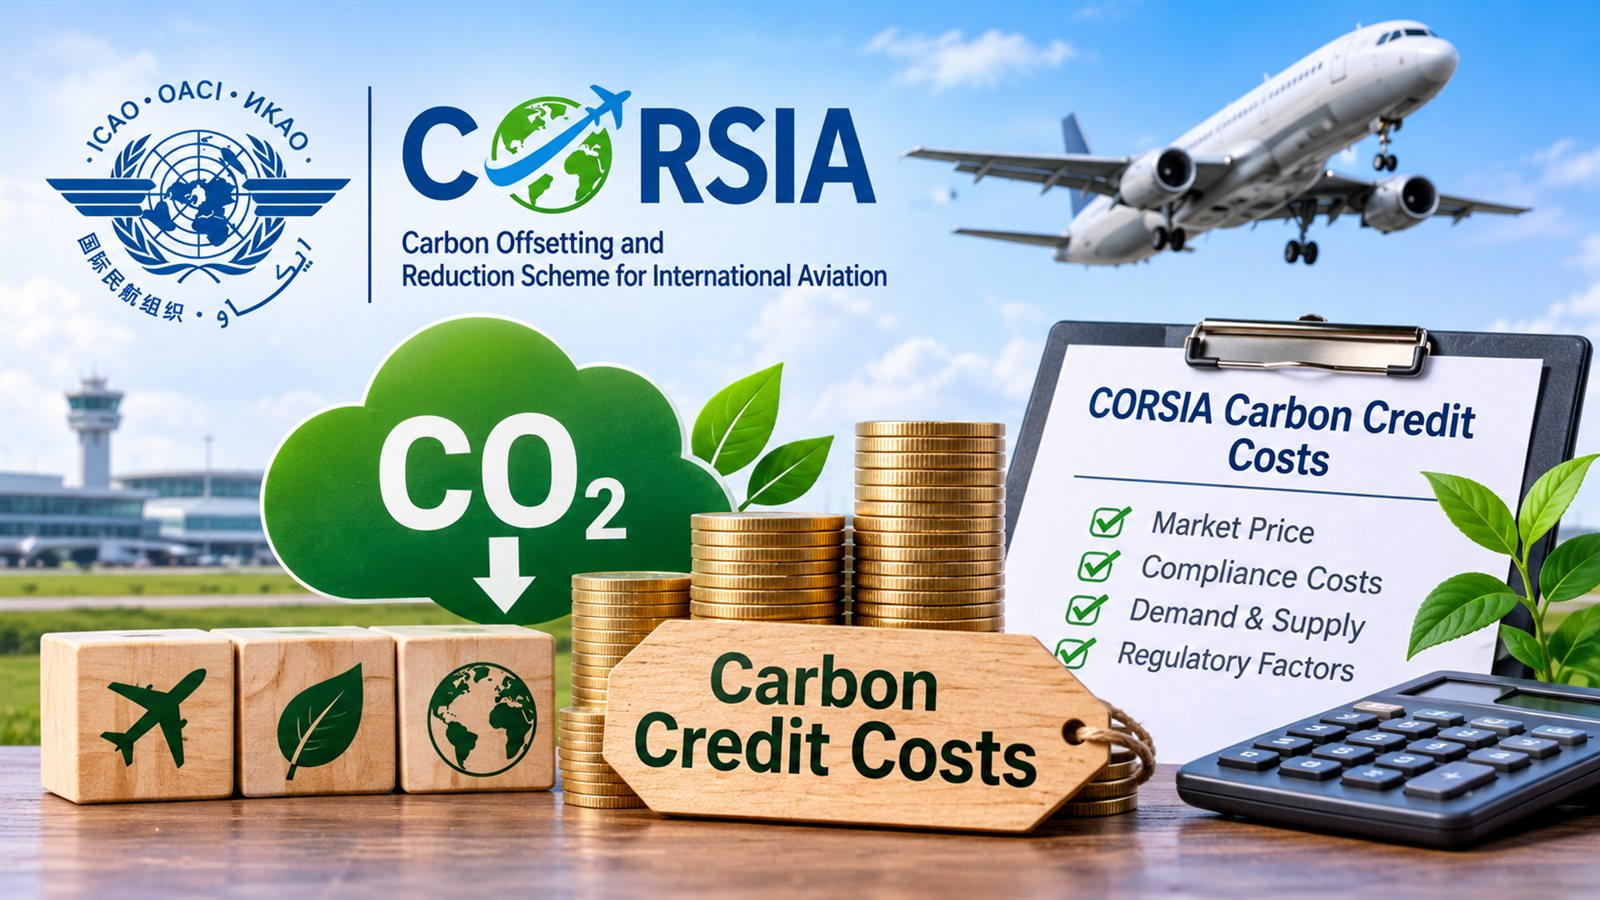
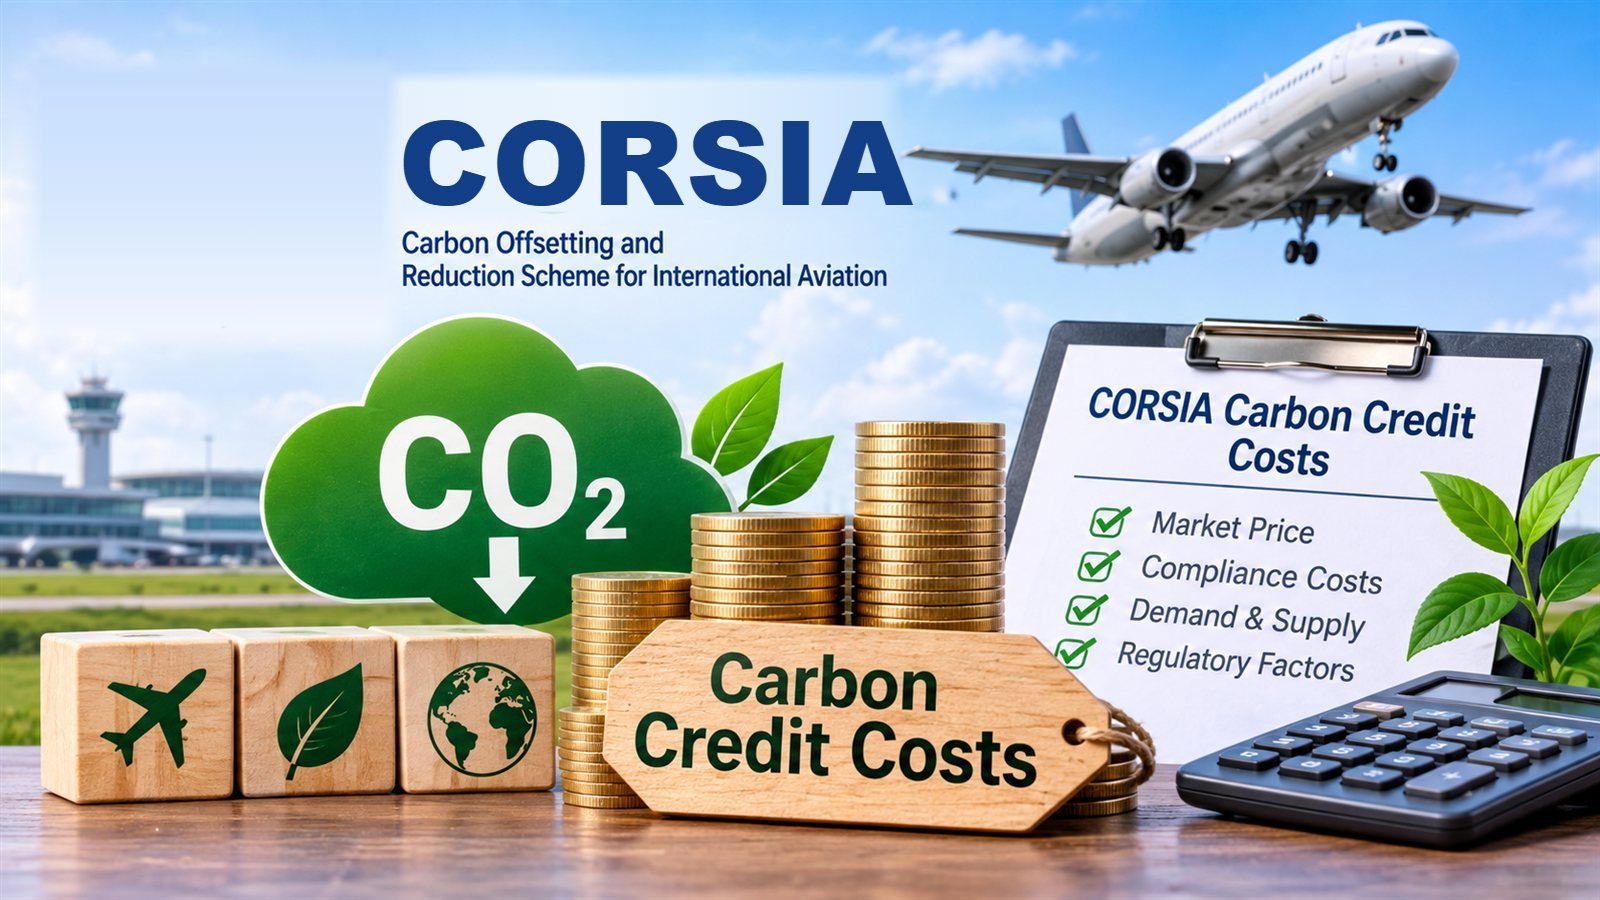
Fix broken internal links, update CORSIA prices and IATA demand figures, lengthen short meta descriptions, add missing home links, remove the ICAO emblem and an inaccurate India map from three covers, and delete unused images

Changed region(s): [[0.0, 0.0622, 0.5625, 0.3733]]

diff --git a/src/content/insights/difference-between-green-credit-and-carbon-credit.md b/src/content/insights/difference-between-green-credit-and-carbon-credit.md
@@ -9,7 +9,7 @@ metaTitle: "Green Credit vs Carbon Credit: Meaning and Key Differences"
 metaDescription: "What is the difference between green credit and carbon credit? Learn India's Green Credit Programme, how carbon credits work, CCTS, and why they differ."
 ---
 
-**What is the difference between green credit and carbon credit?** A **green credit** is an incentive issued under India's Green Credit Programme for carrying out a specified environmental activity, such as tree plantation or water conservation, measured using that activity's own methodology. A **carbon credit** represents a quantified reduction or removal of greenhouse gases, generally **one tonne of CO₂ equivalent (tCO₂e)**, verified and issued under a carbon-crediting programme or scheme.
+**What is the difference between green credit and carbon credit?** A **green credit** is an incentive issued under India's Green Credit Programme for carrying out a specified environmental activity, such as tree plantation or water conservation, measured using that activity's own methodology. A **carbon credit** represents a quantified reduction or removal of greenhouse gases, generally **one tonne of CO₂ equivalent (tCO₂e)**, verified and issued under a carbon-crediting programme or scheme. For more guides on carbon credits, explore [CORSIA Carbon Credits](https://corsiacarboncredit.in/).
 
 Green credits reward broader environmental actions. Carbon credits measure climate outcomes in tonnes. **One green credit is not equal to one tonne of CO₂e**, and the two cannot be swapped for each other.
 
@@ -123,7 +123,7 @@ The **Carbon Credit Trading Scheme, 2023** was notified on 28 June 2023 under th
 
 Both parts issue **Carbon Credit Certificates**, with one certificate representing one tCO₂e. Trading is planned on power exchanges under CERC regulation. Reports in 2026 indicated that trading was being prepared to start, so check BEE's portal for the current status.
 
-The CCTS is a **carbon market**. The Green Credit Programme is an **environmental incentive programme**. They have different laws, administrators, units and rules. Our article on [India's Carbon Credit Trading Scheme](/blog/carbon-credit-trading-scheme-in-india-how-it-works/) explains the scheme in more detail.
+The CCTS is a **carbon market**. The Green Credit Programme is an **environmental incentive programme**. They have different laws, administrators, units and rules. Our article on [carbon credits regulations in India](/blog/carbon-credits-regulations-in-india/) explains the scheme in more detail.
 
 ## Benefits of Green Credits and Carbon Credits
 

diff --git a/src/content/insights/carbon-credit-costs-of-corsia-icao.md b/src/content/insights/carbon-credit-costs-of-corsia-icao.md
@@ -42,7 +42,7 @@ Prices differ because eligible units are not identical. They differ in programme
 
 ## How Much Do CORSIA Carbon Credits Cost?
 
-There is no single answer, but published market assessments give a guide. A market report published on **16 October 2026** cited an **assessment of USD 13.15 per tonne of CO₂e** for first-phase (2024–2026) eligible units for December 2026 delivery ([green.earth](https://www.green.earth/news/corsia-activity-builds-across-prices-airlines-and-supply)).
+There is no single answer, but published market assessments give a guide. A market report published on **16 October 2026** cited an **assessment of USD 13.15 per tonne of CO₂e** for first-phase (2024–2026) eligible units for December 2026 delivery ([green.earth](https://www.green.earth/news/corsia-activity-builds-across-prices-airlines-and-supply)). More recently, Fastmarkets assessed first-phase spot units at **USD 13.00 per tCO₂e on 18 November 2026**.
 
 Treat this as a reference point, not a price you can buy at:
 
@@ -104,7 +104,7 @@ Only units that pass every ICAO condition count, so eligible supply is much smal
 
 ### 2. Airline demand
 
-Demand comes from offsetting requirements. In September 2025, IATA estimated that airlines would need between 146 million and 236 million eligible units for the first phase.
+Demand comes from offsetting requirements. In September 2025, IATA estimated that airlines would need between 146 million and 236 million eligible units for the first phase. By September 2026, IATA put first-phase demand at 200–250 million units, against about 72 million covered by compatible host-country authorisations as of August 2026.
 
 ### 3. Credit quality and environmental integrity
 
@@ -220,7 +220,7 @@ Today, demand clearly exceeds labelled supply, so prices could rise. However, ne
 ## Frequently Asked Questions
 
 ::: accordion How much do CORSIA carbon credits cost?
-There is no fixed price. Prices vary by unit and deal. As one reference point, a market report dated 16 October 2026 cited an assessment of USD 13.15 per tCO₂e for first-phase units for December 2026 delivery. Always check current data.
+There is no fixed price. Prices vary by unit and deal. As one reference point, a market report dated 16 October 2026 cited an assessment of USD 13.15 per tCO₂e for first-phase units for December 2026 delivery, and Fastmarkets assessed spot units at USD 13.00 on 18 November 2026. Always check current data.
 :::
 
 ::: accordion Does ICAO set the price of CORSIA carbon credits?

diff --git a/src/content/insights/corsia-carbon-market.md b/src/content/insights/corsia-carbon-market.md
@@ -9,7 +9,7 @@ metaTitle: "CORSIA Carbon Market: How It Works, Supply, Demand, Prices"
 metaDescription: "Learn how the CORSIA carbon market works: participants, eligible units, airline demand, constrained supply, price drivers, and the market's future outlook."
 ---
 
-The **CORSIA carbon market** is the market in which airlines obtain carbon credits that ICAO recognises as eligible, then cancel them to meet their offsetting requirements under the Carbon Offsetting and Reduction Scheme for International Aviation. It is not a single exchange. It is a network of carbon-crediting programmes, project developers, host governments, registries, brokers and aeroplane operators. Each unit must meet ICAO's eligibility rules before it can count.
+The **CORSIA carbon market** is the market in which airlines obtain carbon credits that ICAO recognises as eligible, then cancel them to meet their offsetting requirements under the Carbon Offsetting and Reduction Scheme for International Aviation. It is not a single exchange. It is a network of carbon-crediting programmes, project developers, host governments, registries, brokers and aeroplane operators. Each unit must meet ICAO's eligibility rules before it can count. For more guides on eligible units and airline compliance, explore [CORSIA Carbon Credits](https://corsiacarboncredit.in/).
 
 This guide explains how the market works and who takes part. It covers why airline demand is running well ahead of eligible supply, what affects prices and what could shape the market's future. Time-sensitive figures reflect information available in November 2026.
 
@@ -97,7 +97,7 @@ Demand comes from airline offsetting requirements. These depend on emissions gro
 
 The published estimates show a large mismatch:
 
-- In September 2025, **IATA** estimated that airlines would need between **146 million and 236 million** eligible units for the first phase.
+- In September 2025, **IATA** estimated that airlines would need between **146 million and 236 million** eligible units for the first phase. By September 2026, IATA put first-phase demand at 200–250 million units, against about 72 million covered by compatible host-country authorisations as of August 2026.
 - **ICAO's** August–September 2026 CORSIA newsletter reported about **44 million** units labelled CORSIA eligible for that phase.
 
 Estimates differ by source and change frequently, but they all point the same way: demand is well ahead of authorised, labelled supply.

diff --git a/src/content/insights/carbon-credit-price-per-ton.md b/src/content/insights/carbon-credit-price-per-ton.md
@@ -44,6 +44,7 @@ Prices differ sharply between **voluntary markets**, where companies buy credits
 | Removal credits | about 19.50 | 2024 | Average of reported deals | Ecosystem Marketplace |
 | CORSIA first-phase units (spot) | 19.00 | 28 Jan 2026 | Price assessment | [Fastmarkets](https://www.fastmarkets.com/insights/corsia-spot-prices-continue-to-slide-all-eyes-still-on-supply/) |
 | CORSIA first-phase units (Dec 2026 delivery) | 13.15 | Mid-Oct 2026 | Price assessment | [green.earth](https://www.green.earth/news/corsia-activity-builds-across-prices-airlines-and-supply) |
+| CORSIA first-phase units (spot) | 13.00 | 18 Nov 2026 | Price assessment | [Fastmarkets](https://www.fastmarkets.com/insights/corsia-prices-tick-higher-on-increased-buyer-inquiries-despite-overall-airline-buying-remaining-measured/) |
 | EU ETS allowances (compliance permits) | about €90 | 2–4 Nov 2026 | Exchange futures price | [GMK Center](https://gmk.center/en/news/european-carbon-prices-exceeded-e90-t-in-november/) |
 
 The figures are of different types:
@@ -93,7 +94,7 @@ Prices across markets **cannot be compared directly**, because the instruments, 
 
 **CORSIA**, the Carbon Offsetting and Reduction Scheme for International Aviation, is ICAO's global market-based measure for international aviation's CO₂. Airlines with offsetting requirements on routes between participating States must cancel **CORSIA eligible emissions units**.
 
-There is **no official CORSIA price**. ICAO decides which units are eligible, but it does not sell credits or run an exchange. Published assessments for first-phase (2024–2026) units fell from **USD 19.00 per tonne on 28 January 2026** (Fastmarkets spot assessment) to **USD 13.15 per tonne** for December 2026 delivery (cited in mid-October 2026). The fall followed more labelled units reaching the market.
+There is **no official CORSIA price**. ICAO decides which units are eligible, but it does not sell credits or run an exchange. Published assessments for first-phase (2024–2026) units fell from **USD 19.00 per tonne on 28 January 2026** (Fastmarkets spot assessment) to **USD 13.15 per tonne** for December 2026 delivery (cited in mid-October 2026), and Fastmarkets assessed spot units at **USD 13.00 per tonne on 18 November 2026**. The fall followed more labelled units reaching the market.
 
 What affects the price of a CORSIA unit:
 

diff --git a/src/content/insights/carbon-credit-explained.md b/src/content/insights/carbon-credit-explained.md
@@ -6,12 +6,12 @@ topic: "CORSIA Fundamentals"
 tags: ["carbon credit explained", "what is a carbon credit", "how carbon credits work", "types of carbon credits", "CORSIA carbon credits"]
 image: "/media/carbon-credit-explained.png"
 metaTitle: "Carbon Credit Explained: A Complete Beginner's Guide"
-metaDescription: "Understand carbon credits, how they work, their types, benefits, trading process and role in reducing greenhouse gas emissions."
+metaDescription: "Carbon credits explained for beginners: what they are, how they work, the main types, benefits, how trading works and their role in cutting emissions."
 ---
 
 **Carbon credit explained in one sentence:** a carbon credit is a certificate, issued by a carbon-crediting programme, that represents **one metric tonne of carbon dioxide equivalent (1 tCO₂e)** reduced or removed from the atmosphere by a specific, verified project, under that programme's rules. Companies, governments and airlines buy credits to finance those projects and to compensate for emissions they cannot yet cut. For how credits are used in aviation, see our [CORSIA Carbon Credits](https://corsiacarboncredit.in/) resources.
 
-Carbon credits have become part of climate action because cutting emissions everywhere at once is impossible. They put a price on avoided or removed tonnes and channel money to projects that deliver them. This guide explains carbon credits by **following one credit through its whole life**, from a project idea to its final retirement. For a shorter overview, see our explainer on [what carbon credits are and how they work](/blog/what-are-carbon-credits-and-how-do-they-work/).
+Carbon credits have become part of climate action because cutting emissions everywhere at once is impossible. They put a price on avoided or removed tonnes and channel money to projects that deliver them. This guide explains carbon credits by **following one credit through its whole life**, from a project idea to its final retirement. For a shorter overview, see our explainer on [what carbon trading and carbon credits are](/blog/what-is-carbon-trading-and-carbon-credit/).
 
 ## What Is a Carbon Credit?
 

diff --git a/src/content/insights/how-much-can-you-earn-from-carbon-credits.md b/src/content/insights/how-much-can-you-earn-from-carbon-credits.md
@@ -260,7 +260,7 @@ For a unit to be eligible:
 
 Programme and unit requirements must be checked separately. Eligibility gives access to **airline buyers**, whose demand is tied to compliance deadlines rather than voluntary pledges.
 
-**This does not mean every CORSIA-eligible credit sells for more.** CORSIA first-phase units were assessed at about **USD 13.15 in mid-October 2026** (green.earth), after falling earlier in the year. That figure is a market assessment for one product, not a guaranteed premium. Obtaining authorisation also adds time and requirements. Our guide to [CORSIA eligible carbon credits](/blog/corsia-eligible-carbon-credits/) explains the checks.
+**This does not mean every CORSIA-eligible credit sells for more.** CORSIA first-phase units were assessed at about **USD 13.15 in mid-October 2026** (green.earth) and **USD 13.00 on 18 November 2026** (Fastmarkets), after falling earlier in the year. That figure is a market assessment for one product, not a guaranteed premium. Obtaining authorisation also adds time and requirements. Our guide to [CORSIA eligible carbon credits](/blog/corsia-eligible-carbon-credits/) explains the checks.
 
 ## Common Mistakes That Reduce Carbon Credit Earnings
 
@@ -339,7 +339,7 @@ Costs include feasibility studies, design documents, validation, monitoring, ver
 :::
 
 ::: accordion Do CORSIA-eligible carbon credits earn more money?
-Not automatically. Eligibility gives access to airline buyers, and CORSIA first-phase units were assessed at about USD 13.15 in mid-October 2026. But prices change, and authorisation adds requirements.
+Not automatically. Eligibility gives access to airline buyers, and CORSIA first-phase units were assessed at about USD 13.00 on 18 November 2026 (Fastmarkets). But prices change, and authorisation adds requirements.
 :::
 
 ## Conclusion

diff --git a/src/content/insights/carbon-credit-certification-process.md b/src/content/insights/carbon-credit-certification-process.md
@@ -9,7 +9,7 @@ metaTitle: "Carbon Credit Certification Process: Step-by-Step Guide"
 metaDescription: "A step-by-step guide to the carbon credit certification process: standards, methodologies, PDD, validation, registration, verification and credit issuance."
 ---
 
-The **carbon credit certification process** is the series of checks a greenhouse gas reduction or removal project must pass before a carbon-crediting programme issues credits for it. The developer chooses a standard and an approved methodology and writes a Project Design Document. An independent auditor **validates** the design, and the programme **registers** the project. The project is then monitored, and an independent auditor **verifies** the results. Only then does the programme **issue** credits into its registry, generally one credit for each tonne of CO₂ equivalent (tCO₂e).
+The **carbon credit certification process** is the series of checks a greenhouse gas reduction or removal project must pass before a carbon-crediting programme issues credits for it. The developer chooses a standard and an approved methodology and writes a Project Design Document. An independent auditor **validates** the design, and the programme **registers** the project. The project is then monitored, and an independent auditor **verifies** the results. Only then does the programme **issue** credits into its registry, generally one credit for each tonne of CO₂ equivalent (tCO₂e). For more guides on credits and the CORSIA market, explore [CORSIA Carbon Credits](https://corsiacarboncredit.in/).
 
 This guide walks through each step, the documents involved, what affects time and cost, and whether certified credits can be used for CORSIA.
 

diff --git a/src/content/insights/difference-between-carbon-credit-and-carbon-offset.md b/src/content/insights/difference-between-carbon-credit-and-carbon-offset.md
@@ -9,7 +9,7 @@ metaTitle: "Carbon Credit vs Carbon Offset: Key Differences Explained"
 metaDescription: "What is the difference between a carbon credit and a carbon offset? Learn their meanings, how credits become offsets through retirement, and how CORSIA fits."
 ---
 
-**What is the difference between carbon credit and carbon offset?** A **carbon credit** is a measured, verified and tradable unit, generally representing one tonne of CO₂ equivalent (tCO₂e) reduced or removed by a project. A **carbon offset** is the act of using such credits to compensate for emissions released somewhere else. In short, the credit is the **unit**, and offsetting is the **use**. A credit becomes an offset only when it is retired against a stated emissions claim.
+**What is the difference between carbon credit and carbon offset?** A **carbon credit** is a measured, verified and tradable unit, generally representing one tonne of CO₂ equivalent (tCO₂e) reduced or removed by a project. A **carbon offset** is the act of using such credits to compensate for emissions released somewhere else. In short, the credit is the **unit**, and offsetting is the **use**. A credit becomes an offset only when it is retired against a stated emissions claim. For more guides on carbon credits, explore [CORSIA Carbon Credits](https://corsiacarboncredit.in/).
 
 People often use the two terms interchangeably, but the difference matters for buyers, sustainability reporting and compliance schemes such as CORSIA. This guide explains both terms, shows how they connect and sets out the rules that make an offsetting claim credible.
 

diff --git a/src/content/insights/carbon-credits-regulations.md b/src/content/insights/carbon-credits-regulations.md
@@ -157,7 +157,7 @@ India has built a domestic carbon market framework:
 - **Carbon Credit Certificates.** Both mechanisms issue certificates, with one certificate representing one tCO₂e. Trading is planned on power exchanges, regulated by the Central Electricity Regulatory Commission (CERC). Reports in 2026 indicated trading was being prepared to start, so check BEE for the current status.
 - **International links.** MoEFCC handles India's engagement under Article 6. Any international transfer of Indian reductions needs government authorisation and accounting under those rules.
 
-**Domestic rules are not the same as international programme rules.** A certificate under the CCTS serves India's domestic market. A Verra or Gold Standard credit from an Indian project follows that programme's rules. Neither is automatically eligible for international compliance or CORSIA. Our article on [India's Carbon Credit Trading Scheme](/blog/carbon-credit-trading-scheme-in-india-how-it-works/) explains the scheme in more depth.
+**Domestic rules are not the same as international programme rules.** A certificate under the CCTS serves India's domestic market. A Verra or Gold Standard credit from an Indian project follows that programme's rules. Neither is automatically eligible for international compliance or CORSIA. Our article on [carbon credits regulations in India](/blog/carbon-credits-regulations-in-india/) explains the scheme in more depth.
 
 ## How Do Carbon Credit Regulations Prevent Double Counting?
 

diff --git a/src/content/insights/corsia-methodology-actual-life-cycle-emissions-values.md b/src/content/insights/corsia-methodology-actual-life-cycle-emissions-values.md
@@ -9,7 +9,7 @@ metaTitle: "CORSIA Actual Life Cycle Emissions Values: SAF Methodology"
 metaDescription: "How the CORSIA methodology calculates actual life cycle emissions values for SAF: stages, ILUC, credits, actual vs default values and how they are verified."
 ---
 
-The **CORSIA Methodology for Calculating Actual Life Cycle Emissions Values** is the ICAO document that explains how a fuel producer can work out the real, measured greenhouse gas intensity of a sustainable aviation fuel (SAF). The calculation covers every stage of the fuel's life, from feedstock to combustion in an aircraft engine, instead of using ICAO's standard default figure.
+The **CORSIA Methodology for Calculating Actual Life Cycle Emissions Values** is the ICAO document that explains how a fuel producer can work out the real, measured greenhouse gas intensity of a sustainable aviation fuel (SAF). The calculation covers every stage of the fuel's life, from feedstock to combustion in an aircraft engine, instead of using ICAO's standard default figure. For more guides on CORSIA and aviation emissions, explore [CORSIA Carbon Credits](https://corsiacarboncredit.in/).
 
 The result is expressed in grams of CO₂ equivalent per megajoule of fuel (gCO₂e/MJ). It decides whether a fuel qualifies as a CORSIA eligible fuel and how much it can reduce an airline's offsetting requirement.
 

diff --git a/src/content/insights/carbon-credits-law-in-india.md b/src/content/insights/carbon-credits-law-in-india.md
@@ -198,7 +198,7 @@ Wider legal responsibilities include:
 - **More offset methodologies**, opening opportunities for eligible reduction projects.
 - **Gradual alignment with Article 6**, including authorised international transfers.
 
-Across all of this, the importance of **measurement, verification and transparent registries** will grow. Businesses that build reliable emissions data now will find compliance easier later. Our article on [carbon credits regulations in India](https://corsiacarboncredit.in/blog/carbon-credits-regulations-in-india/) covers how the market works in practice. Our explainer on [India's Carbon Credit Trading Scheme](/blog/carbon-credit-trading-scheme-in-india-how-it-works/) gives a further overview.
+Across all of this, the importance of **measurement, verification and transparent registries** will grow. Businesses that build reliable emissions data now will find compliance easier later. Our article on [carbon credits regulations in India](https://corsiacarboncredit.in/blog/carbon-credits-regulations-in-india/) covers how the market works in practice. Our guide to [carbon market policy in India](/blog/carbon-market-policy-in-india/) gives a further overview.
 
 ## Frequently Asked Questions
 

diff --git a/src/content/insights/corsia-carbon-credit-supply-shortage.md b/src/content/insights/corsia-carbon-credit-supply-shortage.md
@@ -131,6 +131,7 @@ Basic economics suggests that scarce supply against fixed deadlines adds **upwar
 |---|---|---|---|
 | 28 Jan 2026 | USD 19.00 per tCO₂e | Spot price assessment | Fastmarkets |
 | Mid-Oct 2026 | USD 13.15 per tCO₂e | Assessment, Dec-2026 delivery | green.earth market report |
+| 18 Nov 2026 | USD 13.00 per tCO₂e | Spot price assessment | Fastmarkets |
 
 *Analysis, not confirmed fact:* the fall during 2026 may reflect several things:
 
@@ -218,7 +219,7 @@ Most fail at least one condition: an unapproved programme, out-of-scope methodol
 :::
 
 ::: accordion Can a shortage of CORSIA credits increase carbon credit prices?
-It can add upward pressure, especially near deadlines. But first-phase assessments actually fell during 2026, from USD 19.00 in January to USD 13.15 in October, as new supply arrived. Future prices are uncertain.
+It can add upward pressure, especially near deadlines. But first-phase assessments actually fell during 2026, from USD 19.00 in January to USD 13.15 in October and USD 13.00 on 18 November (Fastmarkets), as new supply arrived. Future prices are uncertain.
 :::
 
 ::: accordion What role do host countries play in supplying CORSIA-eligible credits?
